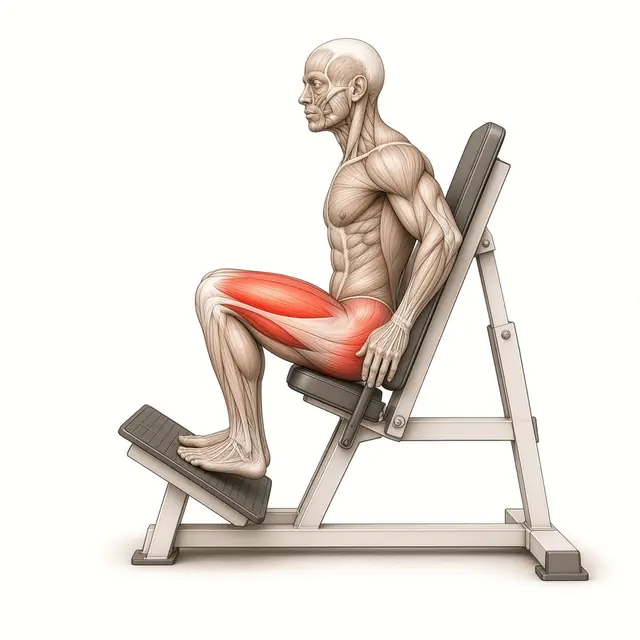
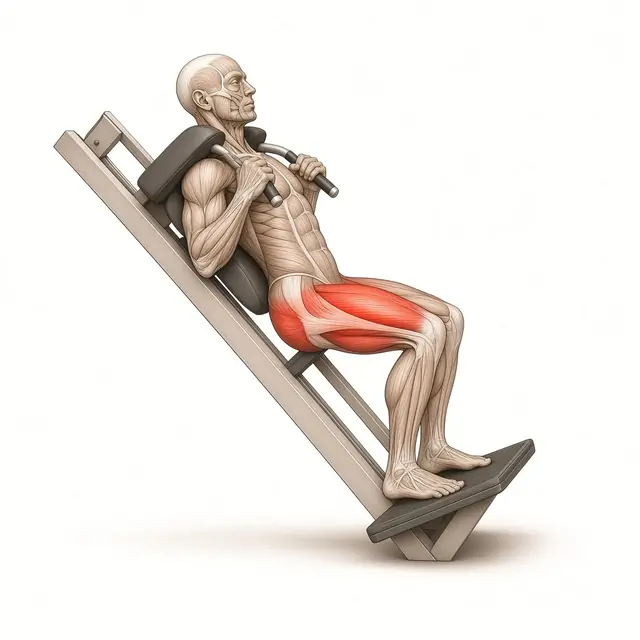
Update 2026-10-26

diff --git a/sw.js b/sw.js
@@ -1,5 +1,5 @@
-/* Voccola Gym Log – Service Worker (v1.6.8: Muskelbilder Gym-Übungen) */
-const CACHE = 'vgl-v1.6.8';
+/* Voccola Gym Log – Service Worker (v1.6.9: Muskelbilder überarbeitet) */
+const CACHE = 'vgl-v1.6.9';
 const ASSETS = ['./', './index.html', './styles.css', './app.js', './mobility.js', './manifest.webmanifest',
   './icons/icon-192.png', './icons/icon-512.png', './icons/apple-touch-icon.png', './icons/icon-maskable-512.png', './assets/dumbbell.webp', './assets/keepawake.mp4',
   './assets/ex/bauch-crunch-maschine.webp', './assets/ex/r-facepull.webp', './assets/ex/r-revfly.webp', './assets/ex/s-presse-kabel-liegend.webp', './assets/ex/s-seitheben-kabel-einarm.webp', './assets/ex/s-seitheben-vorgebeugt.webp', './assets/ex/x1.webp', './assets/ex/x10.webp', './assets/ex/x11.webp', './assets/ex/x12.webp', './assets/ex/x13.webp', './assets/ex/x14.webp', './assets/ex/x15.webp', './assets/ex/x16.webp', './assets/ex/x17.webp', './assets/ex/x18.webp', './assets/ex/x19.webp', './assets/ex/x2.webp', './assets/ex/x20.webp', './assets/ex/x21.webp', './assets/ex/x22.webp', './assets/ex/x23.webp', './assets/ex/x24.webp', './assets/ex/x25.webp', './assets/ex/x26.webp', './assets/ex/x27.webp', './assets/ex/x28.webp', './assets/ex/x3.webp', './assets/ex/x4.webp', './assets/ex/x5.webp', './assets/ex/x6.webp', './assets/ex/x7.webp', './assets/ex/x8.webp', './assets/ex/x9.webp', 

diff --git a/mobility.js b/mobility.js
@@ -1,4 +1,4 @@
-/* Voccola Gym Log – Hüft-Beweglichkeit (v1.6.8). Eigene Daten in localStorage 'vgl-mob', berührt Trainingsdaten nicht. */
+/* Voccola Gym Log – Hüft-Beweglichkeit (v1.6.9). Eigene Daten in localStorage 'vgl-mob', berührt Trainingsdaten nicht. */
 'use strict';
 (function () {
 const KEY = 'vgl-mob';

diff --git a/app.js b/app.js
@@ -1,6 +1,6 @@
 /* Voccola Gym Log – Vanilla JS, offline, keine Tracker. Daten bleiben im Browser (IndexedDB). */
 'use strict';
-const APP_VERSION = '1.6.8';
+const APP_VERSION = '1.6.9';
 
 /* ---------- Helpers ---------- */
 const $ = (s, r = document) => r.querySelector(s);
